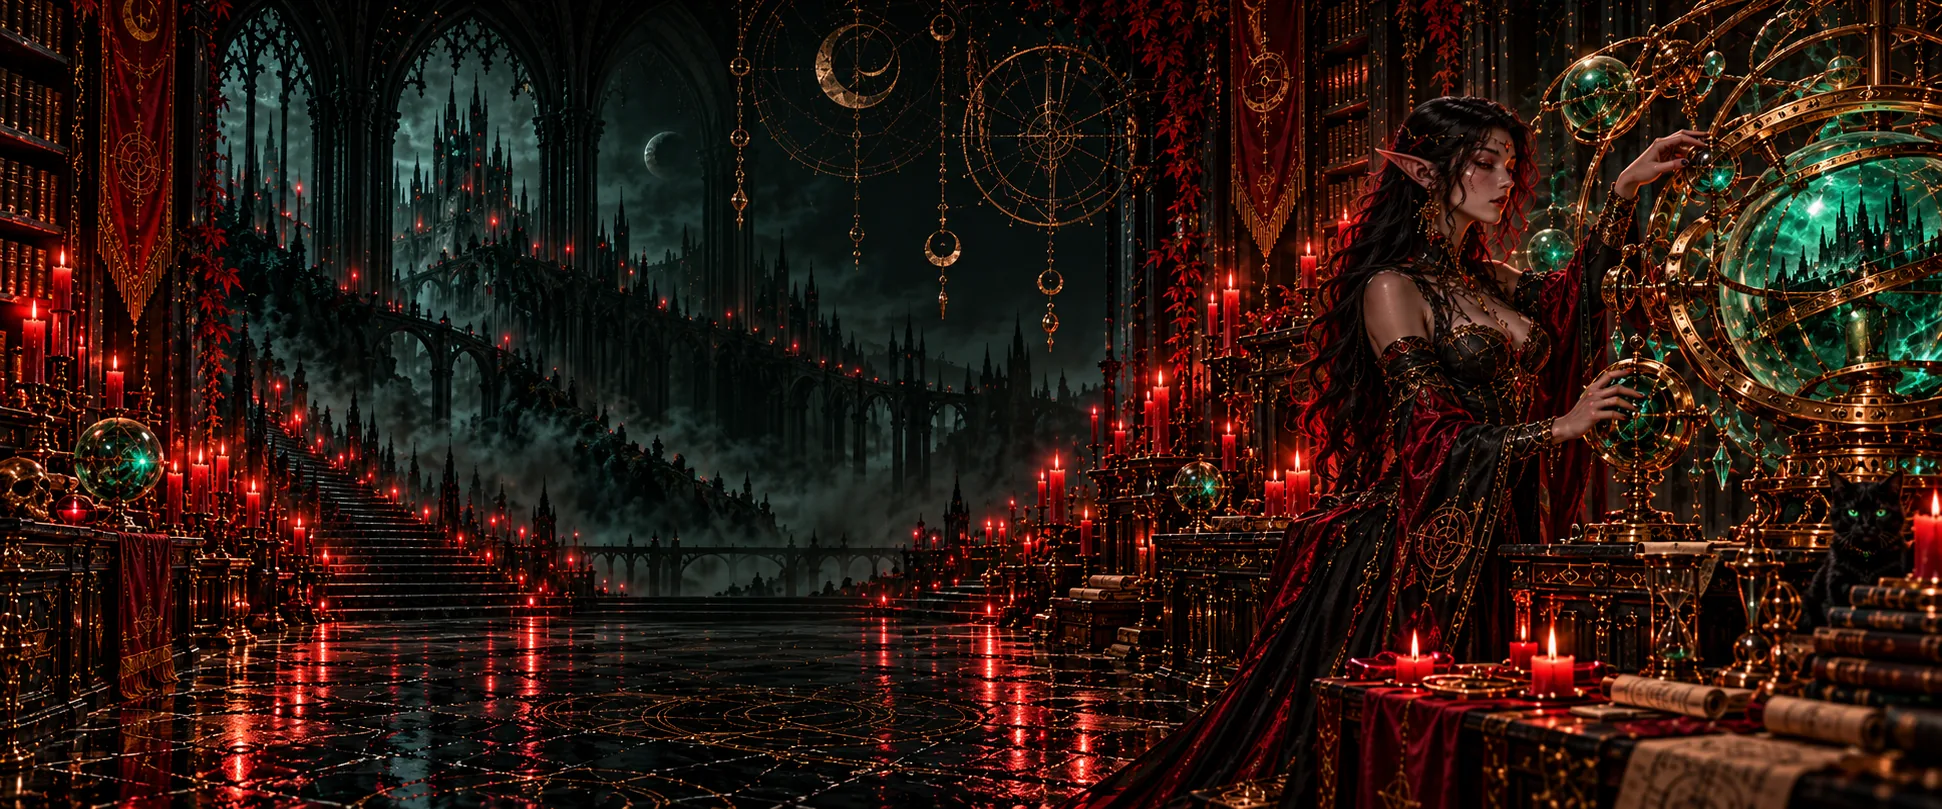
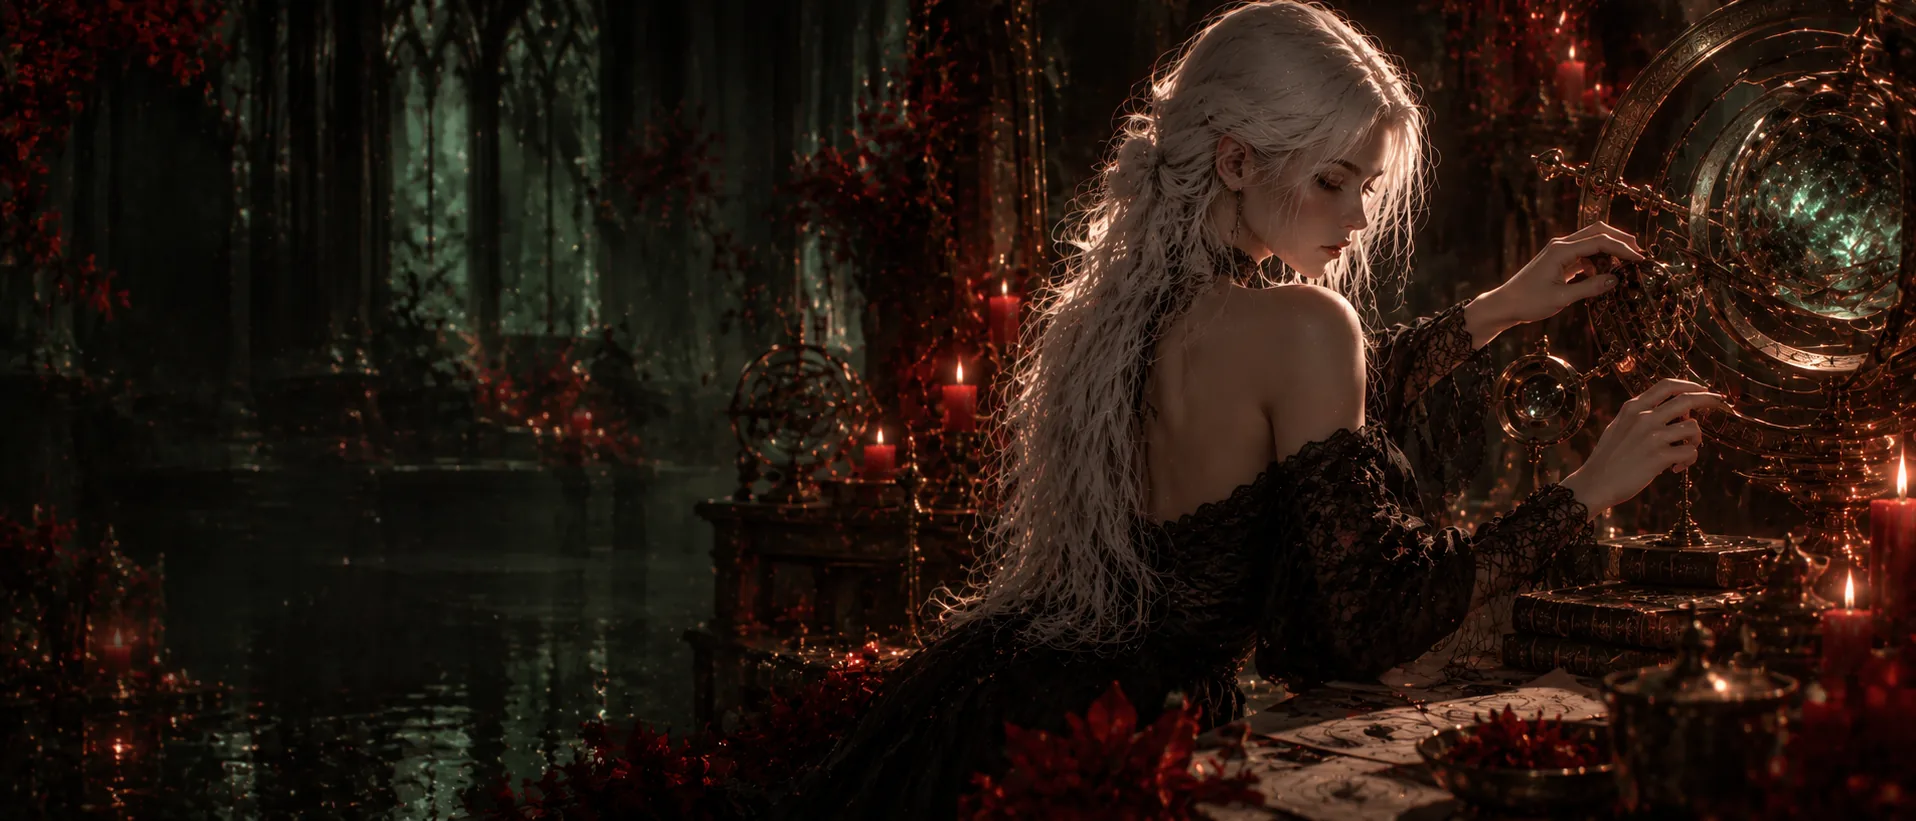
feat(web): redrawn backdrop set — a scene that matches each screen
The owner's new batch replaces the previous 21:9 set: same six scenes, tighter
portrait framing, 1916x821 (2.334) against the primary monitor's 2.389 — crop
stays at ~2% and the upscale at 1.80x, so nothing about object-fit moved.

Mapping is now literal rather than decorative: she reads the ledger on console,
sorts through photographs on memories, looks straight at the viewer on persona,
touches the floating charts on stats, works the instruments on settings and
bends over the scrying orb on scry.

The batch compresses better than the one it replaces: arts 1.5M -> 950KB, export
4.5M -> 3.2M. The 16:9 twins in the same drop stay unused — on the primary they
would reintroduce the vertical crop this whole line of work has been killing.

diff --git a/web/scripts/gen-backgrounds.py b/web/scripts/gen-backgrounds.py
@@ -3,14 +3,17 @@
 History of this mapping, because none of it is derivable from the filenames:
 
 * Pass 1 shipped 900x506 from 1672x941 masters — a 1.6x upscale that read as mush.
-* Pass 2 shipped the masters at native size, but they are 16:9 and the owner's primary
+* Pass 2 shipped those masters at native size, but they are 16:9 and the owner's primary
   monitor is 3440x1440, so object-cover threw away 26% of the height at 2.06x.
-* Pass 3 (now) uses the 1942x809 masters: their 2.400 ratio sits almost on that
-  viewport's 2.389, so the crop collapses to ~0.5% and the upscale to 1.78x.
+* Pass 3 used a 1942x809 (2.400) batch: crop fell to ~0.5%, upscale to 1.78x.
+* Pass 4 (now) is the owner's redrawn set — same six scenes, new style, 1916x821 (2.334).
+  The batch also ships a 16:9 twin of every scene, unused here: the primary monitor is
+  21:9, and on 16:9 the 2.334 art loses 23% of its width.
 
-Which scene lands on which screen is composition, not name: figure-forward shots to
-persona and memories, machinery to settings, the orb to scry, open architecture to
-stats, the widest overview to the console.
+Which scene goes on which screen is literal, not decorative: she reads the glowing ledger
+on the console, sorts through photographs on memories, looks at the viewer on persona,
+touches the floating charts on stats, works the instruments on settings, and bends over
+the scrying orb on scry.
 
 Masters are untracked owner drops; this script's output is what ships. Re-run after
 replacing a master:
@@ -19,19 +22,19 @@ replacing a master:
 from pathlib import Path
 from PIL import Image
 
-MASTERS = Path("design/assets/backgrounds")
+MASTERS = Path("design/assets/backgrounds/new/21:9")
 OUT = Path("web/public/design")
 QUALITY = 82
 
 _BATCH = "Изображение ChatGPT 21 окт. 2026 г., "
 
 PAIRS = {
-    "hero-console.webp": _BATCH + "01_30_13-1.png",
-    "art-memories.webp": _BATCH + "01_27_44-6.png",
-    "art-persona.webp": _BATCH + "01_30_14-2.png",
-    "art-stats.webp": _BATCH + "01_30_15-3.png",
-    "art-settings.webp": _BATCH + "01_27_40-2.png",
-    "art-scry.webp": _BATCH + "01_27_42-4.png",
+    "hero-console.webp": _BATCH + "14_20_12-1.png",
+    "art-memories.webp": _BATCH + "14_20_14-2.png",
+    "art-persona.webp": _BATCH + "14_20_15-3.png",
+    "art-stats.webp": _BATCH + "14_20_15-4.png",
+    "art-settings.webp": _BATCH + "14_20_16-5.png",
+    "art-scry.webp": _BATCH + "14_20_17-6.png",
 }
 
 
